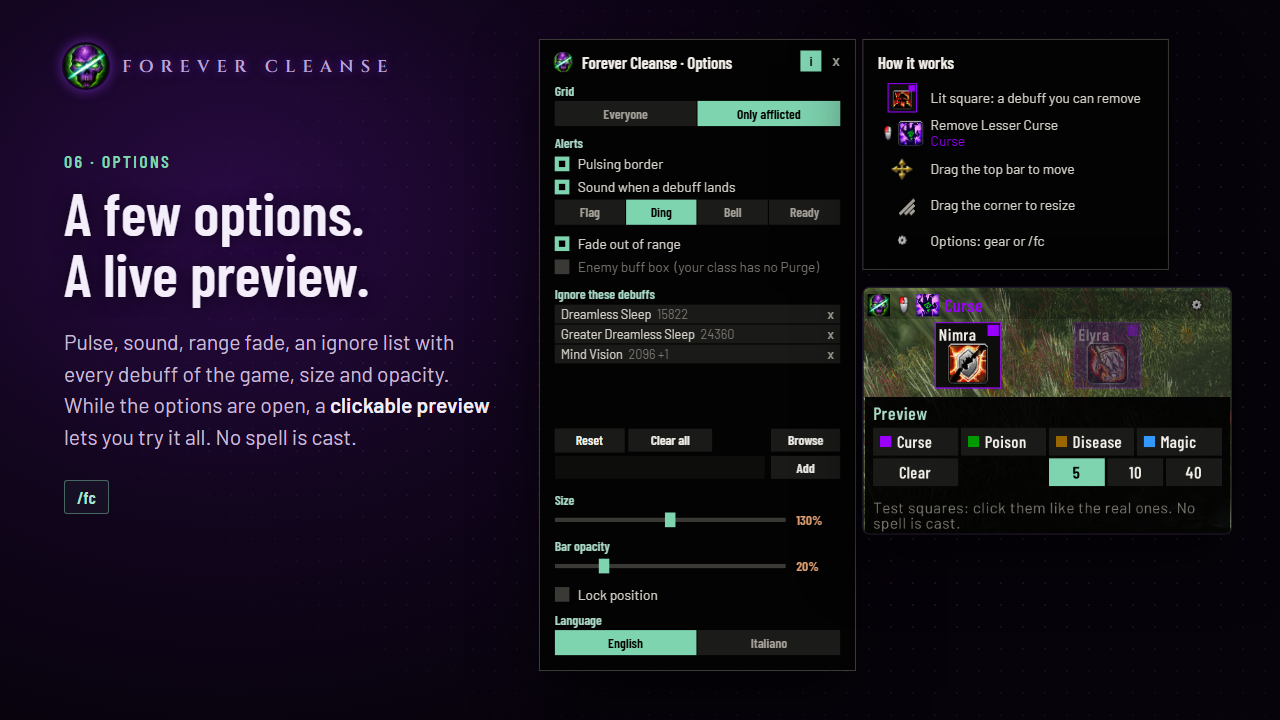
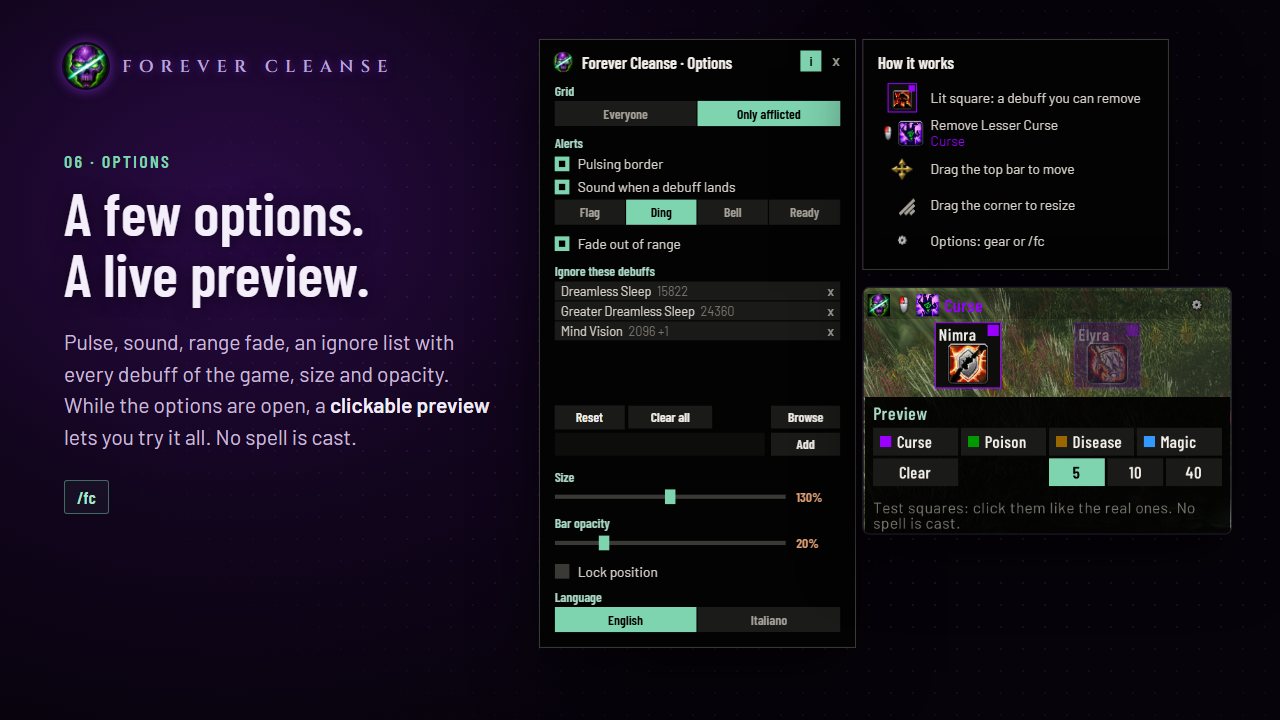
Forever Cleanse 0.2.2: drop the enemy buff box (the game has its own)

Changed region(s): [[0.4062, 0.5806, 0.6562, 0.9167], [0.4375, 0.3667, 0.625, 0.5194], [0.5, 0.55, 0.5312, 0.6417]]

diff --git a/media/gallery.html b/media/gallery.html
@@ -134,7 +134,7 @@ p b{color:#f1ecf7;font-weight:600}
   <!-- the options and How it works panels redrawn from Core.lua (same sizes, colours, fonts), crisp at any scale;
        the game's icons of the How it works column come from shot-options.png (options drawn 1:1 in game) -->
   <div class="ui" style="left:540px;top:40px">
-   <div class="pnl" style="left:0;top:0;width:300px;height:600px">
+   <div class="pnl" style="left:0;top:0;width:300px;height:578px">
     <img src="logo-400.png" style="left:12px;top:11px;width:20px;height:20px;border-radius:50%">
     <div class="ttl" style="left:40px;top:12px">Forever Cleanse · Options</div>
     <div class="ib" style="left:248px;top:10px">i</div>
@@ -146,20 +146,19 @@ p b{color:#f1ecf7;font-weight:600}
     <div class="chk on" style="top:130px"><i></i>Sound when a debuff lands</div>
     <div class="seg off" style="top:152px;left:14px;width:67px">Flag</div><div class="seg on" style="top:152px;left:82px;width:67px">Ding</div><div class="seg off" style="top:152px;left:150px;width:67px">Bell</div><div class="seg off" style="top:152px;left:218px;width:68px">Ready</div>
     <div class="chk on" style="top:184px"><i></i>Fade out of range</div>
-    <div class="chk dis" style="top:206px"><i></i>Enemy buff box&nbsp; (your class has no Purge)</div>
-    <div class="lab" style="top:234px">Ignore these debuffs</div>
-    <div class="ign" style="top:252px">Dreamless Sleep <s>15822</s><u>x</u></div>
-    <div class="ign" style="top:271px">Greater Dreamless Sleep <s>24360</s><u>x</u></div>
-    <div class="ign" style="top:290px">Mind Vision <s>2096 +1</s><u>x</u></div>
-    <div class="btn" style="top:370px;left:14px;width:66px">Reset</div><div class="btn" style="top:370px;left:84px;width:80px">Clear all</div><div class="btn" style="top:370px;left:220px;width:66px">Browse</div>
-    <div class="edit" style="top:396px"></div><div class="btn" style="top:396px;left:220px;width:66px">Add</div>
-    <div class="lab" style="top:430px">Size</div>
-    <div class="sld" style="top:450px"><b style="left:105px"></b></div><div class="val" style="top:448px">130%</div>
-    <div class="lab" style="top:474px">Bar opacity</div>
-    <div class="sld" style="top:494px"><b style="left:42px"></b></div><div class="val" style="top:492px">20%</div>
-    <div class="chk" style="top:518px"><i></i>Lock position</div>
-    <div class="lab" style="top:544px">Language</div>
-    <div class="seg on" style="top:562px;left:14px;width:135px">English</div><div class="seg off" style="top:562px;left:150px;width:136px">Italiano</div>
+    <div class="lab" style="top:212px">Ignore these debuffs</div>
+    <div class="ign" style="top:230px">Dreamless Sleep <s>15822</s><u>x</u></div>
+    <div class="ign" style="top:249px">Greater Dreamless Sleep <s>24360</s><u>x</u></div>
+    <div class="ign" style="top:268px">Mind Vision <s>2096 +1</s><u>x</u></div>
+    <div class="btn" style="top:348px;left:14px;width:66px">Reset</div><div class="btn" style="top:348px;left:84px;width:80px">Clear all</div><div class="btn" style="top:348px;left:220px;width:66px">Browse</div>
+    <div class="edit" style="top:374px"></div><div class="btn" style="top:374px;left:220px;width:66px">Add</div>
+    <div class="lab" style="top:408px">Size</div>
+    <div class="sld" style="top:428px"><b style="left:105px"></b></div><div class="val" style="top:426px">130%</div>
+    <div class="lab" style="top:452px">Bar opacity</div>
+    <div class="sld" style="top:472px"><b style="left:42px"></b></div><div class="val" style="top:470px">20%</div>
+    <div class="chk" style="top:496px"><i></i>Lock position</div>
+    <div class="lab" style="top:522px">Language</div>
+    <div class="seg on" style="top:540px;left:14px;width:135px">English</div><div class="seg off" style="top:540px;left:150px;width:136px">Italiano</div>
    </div>
    <div class="pnl" style="left:308px;top:0;width:290px;height:218px">
     <div class="ttl" style="left:14px;top:12px">How it works</div>

diff --git a/README.md b/README.md
@@ -37,7 +37,6 @@ Open them with the gear at the top right of the bar, a right-click on the bar, o
 
 - **Grid**: *Everyone* (all squares, lit when needed) or *Only afflicted* (a square appears only when there is something to remove).
 - **Alerts**: pulsing border when a debuff lands, a **sound** played by the game itself (also in combat, pick one of four), fade out of range.
-- **Enemy buff box** (Priest, Shaman): the buffs of your enemy target you can remove; click to cast Dispel Magic or Purge.
 - **Ignore list**: debuffs you never want to see. Type a name or spell ID, or press **Browse** to pick one from every Curse, Poison, Disease and Magic debuff of the game (all its ranks are added). Dreamless Sleep and Mind Vision are there from the start.
 - **Size** (60–200%, also with the corner grip), **bar opacity**, **lock**, **language** (English, Italiano).
 

diff --git a/addon/changelog.md b/addon/changelog.md
@@ -1,3 +1,7 @@
+### 0.2.2
+
+- The enemy buff box (Purge / Dispel Magic on your target) is gone: the game already shows your target's buffs you can remove.
+
 ### 0.2.1
 
 - WoW: Forever's experience auras (Boosted Rest, the BONUS XP icon, and the other XP and rested auras) are always hidden: they are not debuffs to remove.
